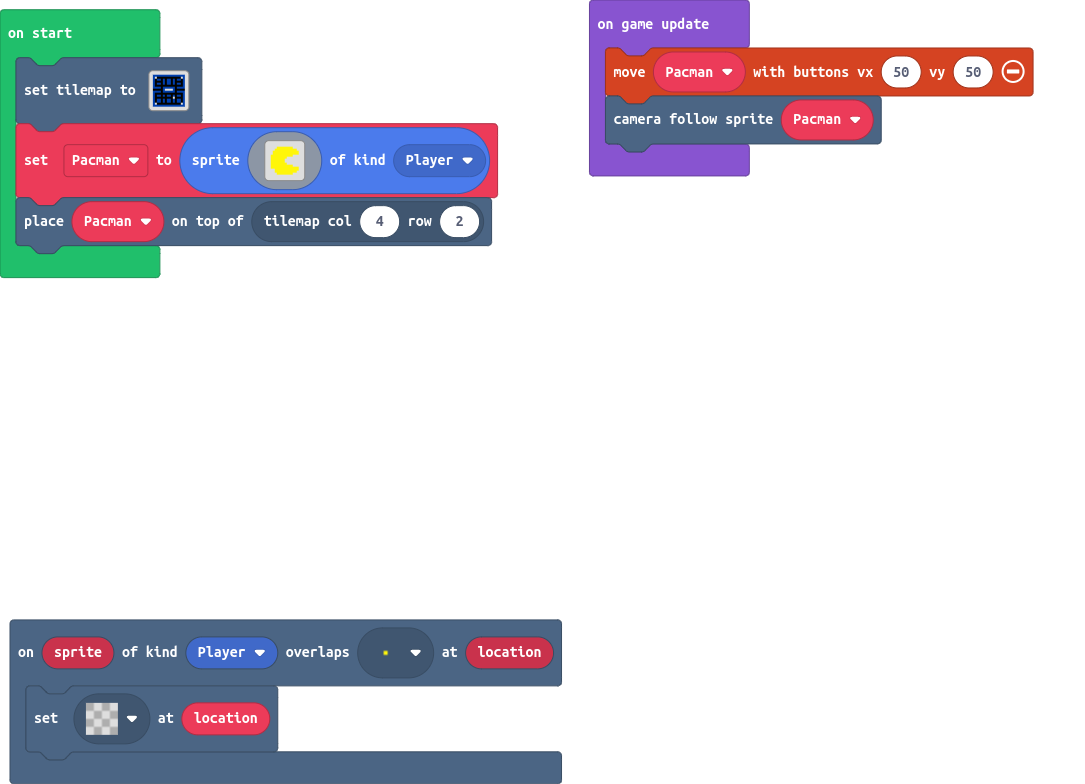
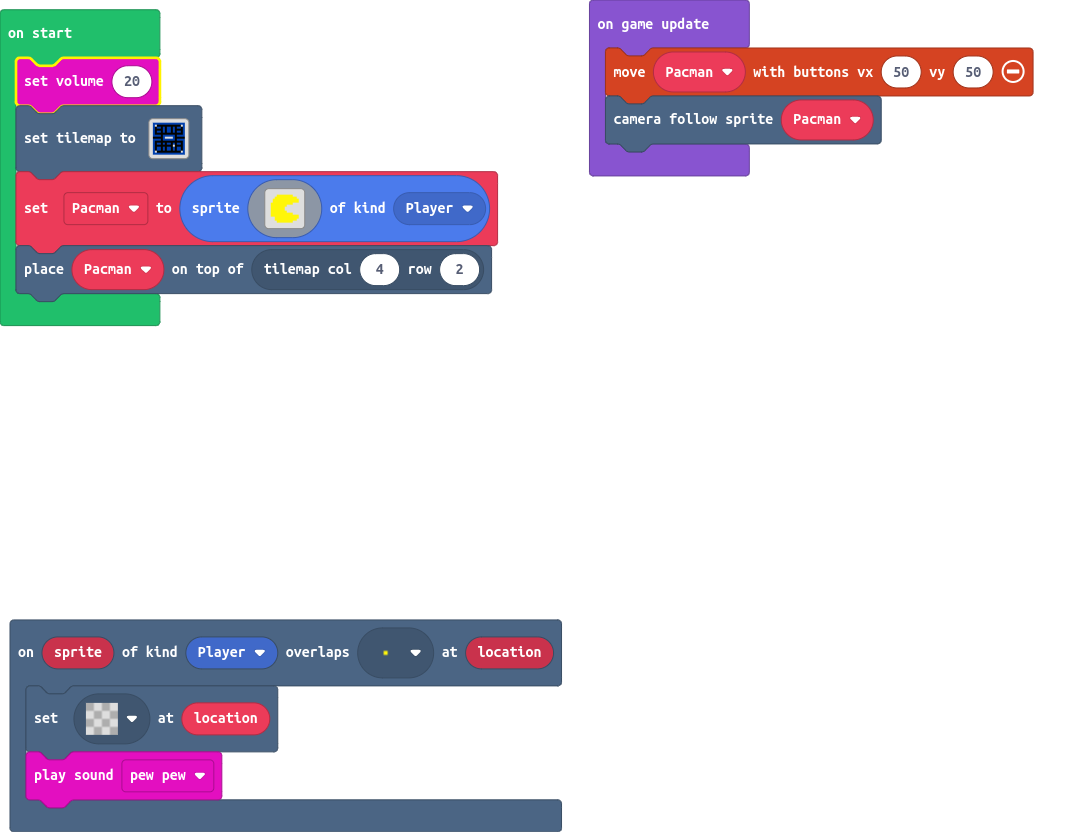
Play sounds while eating pellets.

Changed region(s): [[0.0, 0.0306, 0.4562, 0.398], [0.0, 0.7347, 0.5171, 0.9796], [0.5475, 0.0306, 0.9429, 0.2449]]

diff --git a/main.ts b/main.ts
@@ -59,7 +59,9 @@ namespace myTiles {
 }
 scene.onOverlapTile(SpriteKind.Player, myTiles.tile2, function (sprite, location) {
     tiles.setTileAt(location, myTiles.tile0)
+    music.pewPew.play()
 })
+music.setVolume(20)
 tiles.setTilemap(tiles.createTilemap(
             hex`1000100001010101010101010101010101010101010002020202020202020202020200010102010102010201010201020101020101020202020102010102010202020201010201010201020101020102010102010102020202020202020202020202020101010101020101010101010201010101020202020201000000000102020202020101010102010101010101020101010101020202020202020202020202020201010201010201020101020102010102010102020202020202020200020202020101020101020102010102010201010201010201010201020101020102010102010100020202020202020202020202000101010101010101010101010101010101`,
             img`
